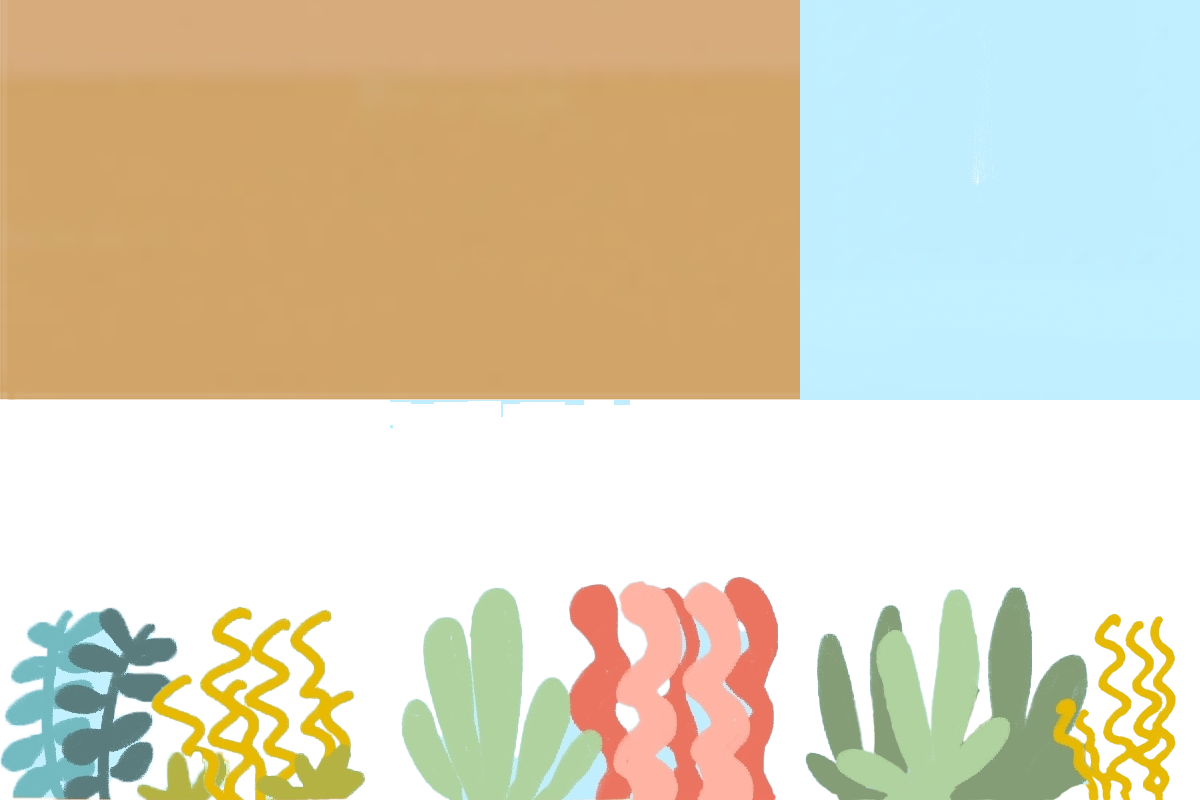
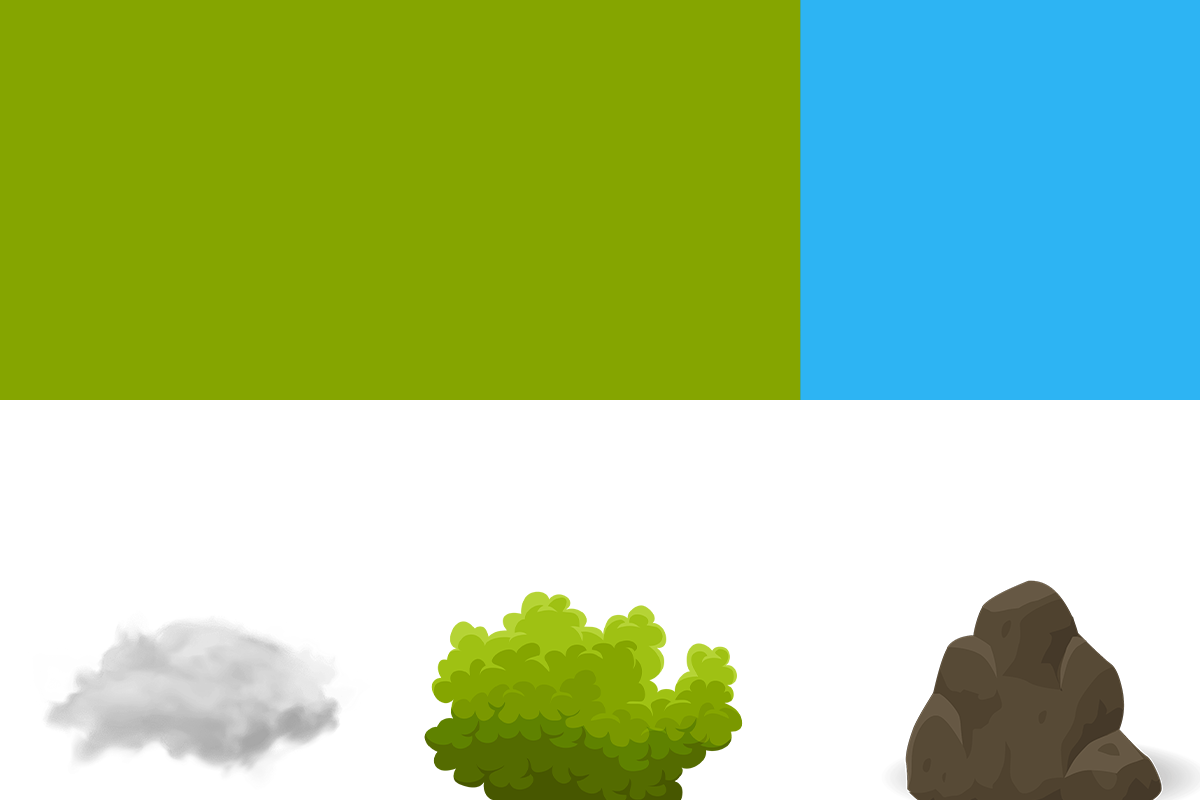
initial tileset changes

diff --git a/ScreenManager.cpp b/ScreenManager.cpp
@@ -31,7 +31,7 @@ void ScreenManager::initScreen(){
         SDL_RenderCopy(GameEngine::renderer, my_texture, &src, &dst);
 
         // reset
-        SDL_SetRenderDrawColor(GameEngine::renderer, 192, 238, 254, 1);
+        SDL_SetRenderDrawColor(GameEngine::renderer, 43, 181, 243, 1);
         TTF_Init();
 
         TTF_Font* font = TTF_OpenFont("assets/arcadeclassic.regular.ttf", 50);
@@ -70,7 +70,7 @@ void ScreenManager::endScreen(){
         SDL_Rect title_dest = {175, 250, 500, 100};
         SDL_RenderCopy(GameEngine::renderer, my_texture, NULL, &title_dest);
 
-        SDL_SetRenderDrawColor(GameEngine::renderer, 192, 238, 254, 1);
+        SDL_SetRenderDrawColor(GameEngine::renderer, 43, 181, 243, 1);
         SDL_FreeSurface(temp);
         TTF_CloseFont(font);
     }
@@ -92,7 +92,7 @@ void ScreenManager::pauseScreen(){
         SDL_Rect title_dest = {175, 250, 500, 100};
         SDL_RenderCopy(GameEngine::renderer, my_texture, NULL, &title_dest);
 
-        SDL_SetRenderDrawColor(GameEngine::renderer, 192, 238, 254, 1);
+        SDL_SetRenderDrawColor(GameEngine::renderer, 43, 181, 243, 1);
         SDL_FreeSurface(temp);
         TTF_CloseFont(font);
 
@@ -123,7 +123,7 @@ void ScreenManager::winScreen(){
         SDL_Rect title_dest = {175, 250, 500, 100};
         SDL_RenderCopy(GameEngine::renderer, my_texture, NULL, &title_dest);
 
-        SDL_SetRenderDrawColor(GameEngine::renderer, 192, 238, 254, 1);
+        SDL_SetRenderDrawColor(GameEngine::renderer, 43, 181, 243, 1);
         SDL_FreeSurface(temp);
         TTF_CloseFont(font);
     }
@@ -158,7 +158,7 @@ void ScreenManager::displayHealth(int health) {
         SDL_RenderCopy(GameEngine::renderer, my_texture, NULL, &title_dest);
         
         // cleanup
-        SDL_SetRenderDrawColor(GameEngine::renderer, 192, 238, 254, 1);
+        SDL_SetRenderDrawColor(GameEngine::renderer, 43, 181, 243, 1);
         SDL_FreeSurface(temp);
         TTF_CloseFont(font);
 

diff --git a/GameEngine.cpp b/GameEngine.cpp
@@ -76,7 +76,7 @@ int GameEngine::initGameEngine(const char* title, int xpos, int ypos, int width,
   isRunning =true;
 
 
-  SDL_SetRenderDrawColor(renderer, 192, 238, 254, 1);
+  SDL_SetRenderDrawColor(renderer, 43, 181, 243, 1);
   
   
   //object initialization

diff --git a/TileMap.cpp b/TileMap.cpp
@@ -1,6 +1,6 @@
 #include "TileMap.h"
 
-//1-sky,2-plant1,3-plant2,4-plant3,5-ground
+//1-sky,2-cloud,3-plant,4-rock,5-ground
 
 int lvl1[4][25]={
   {1,1,1,1,1,1,1,1,1,1,1,1,1,1,1,1,1,1,1,1,1,1,1,1,1},
